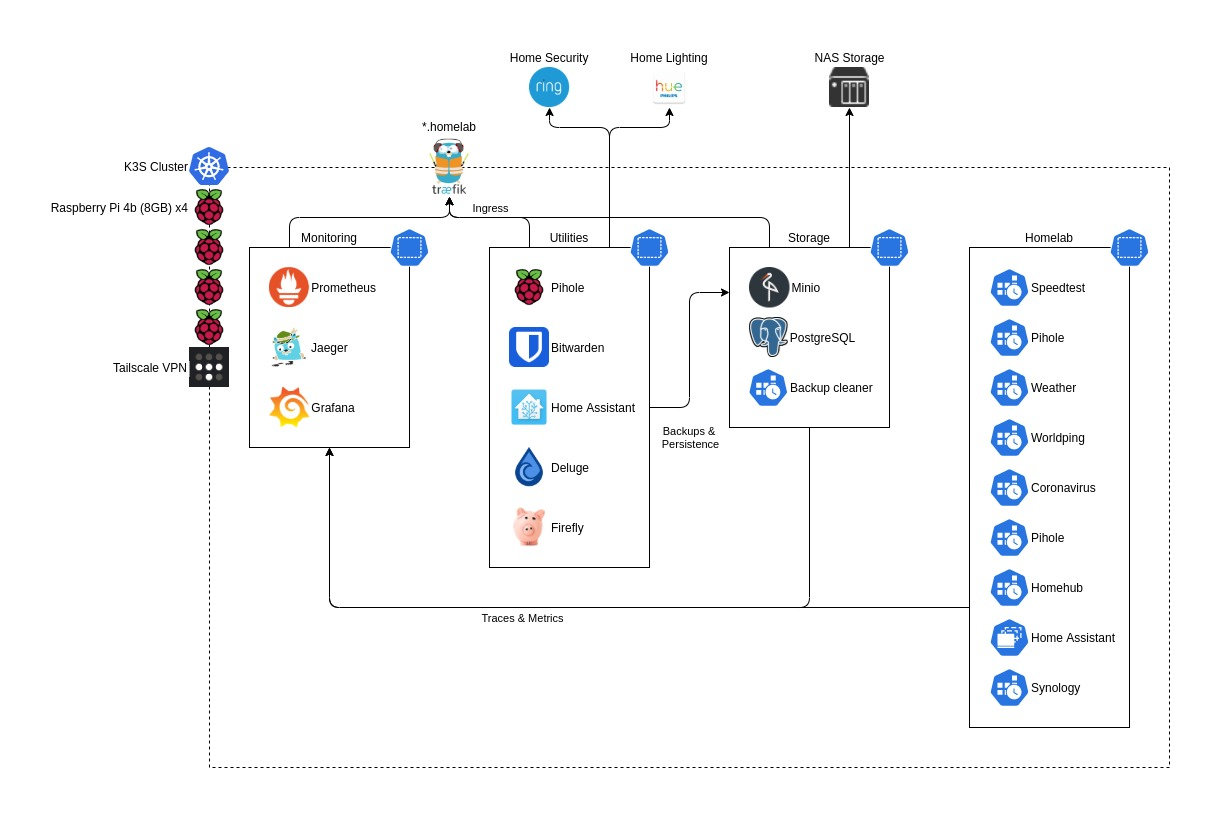
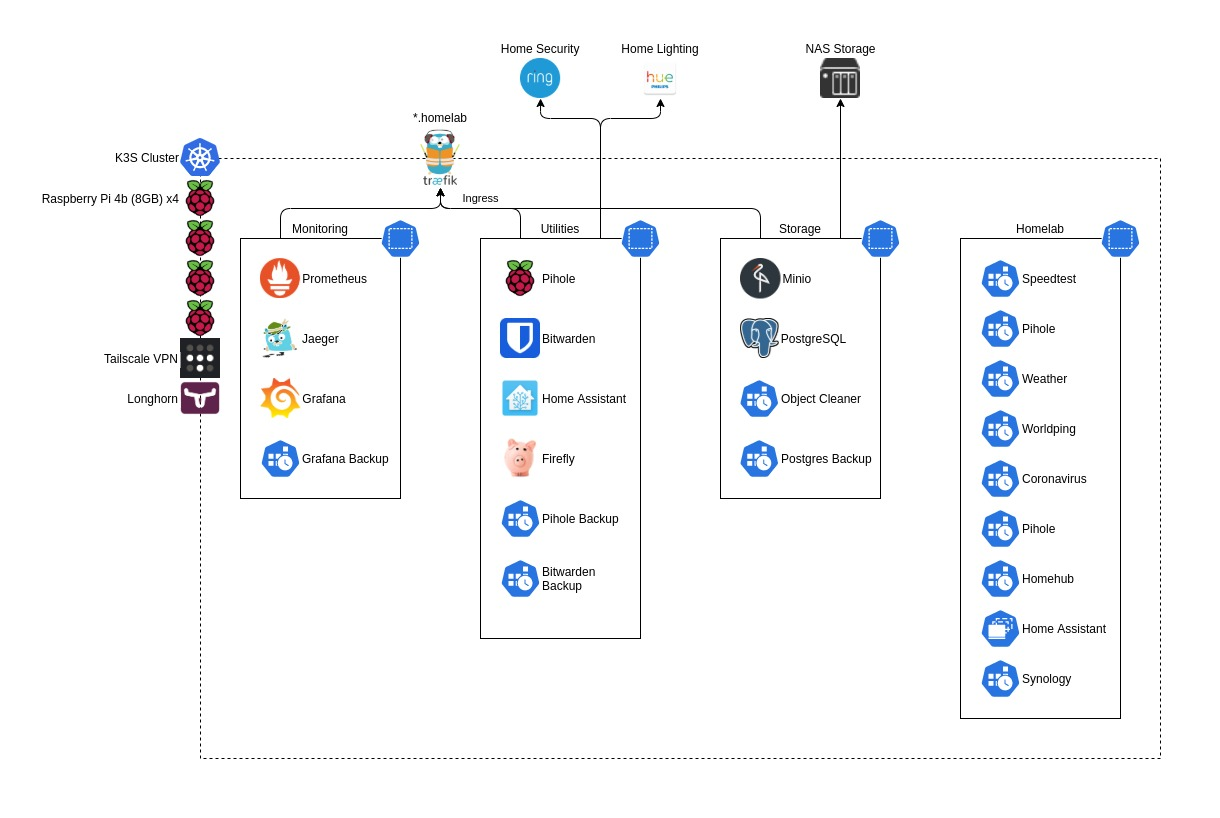
Update documentation (#42)
Removes outdated information, adds information on longhorn, tools & environment.

diff --git a/README.md b/README.md
@@ -15,7 +15,8 @@ Monorepo for my personal homelab. It contains applications and kubernetes manife
 
 ## Getting started
 
-This assumes you have [go](https://golang.org/), [docker](https://www.docker.com/) & [make](https://www.gnu.org/software/make/manual/make.html) 
+This assumes you have [go](https://golang.org/), [kubectl](https://kubernetes.io/docs/reference/kubectl/kubectl),
+[kustomize](https://kubernetes.io/docs/tasks/manage-kubernetes-objects/kustomization) & [make](https://www.gnu.org/software/make/manual/make.html) 
 installed along with docker's [buildx](https://docs.docker.com/buildx/working-with-buildx/) plugin.
 
 * Clone the repository
@@ -34,18 +35,17 @@ installed along with docker's [buildx](https://docs.docker.com/buildx/working-wi
 
 Here's a list of third-party applications I'm using alongside my custom applications:
 
-* [deluge](https://deluge-torrent.org/) - For torrents
-* [home-assistant](https://www.home-assistant.io/) - For interfacing with my ring cameras
-* [pihole](https://pi-hole.net/) - For DNS and ad-blocking
-* [traefik](https://traefik.io/) - For exposing services on the homelab, usually just their web-interfaces
-* [prometheus](https://prometheus.io/) - For scraping all my metrics
-* [grafana](https://grafana.com/) - For visualising all my metrics
-* [jaeger](https://www.jaegertracing.io/) - For tracing my applications
-* [node-exporter](https://github.com/prometheus/node_exporter) - For monitoring the host environment and exporting stats as prometheus metrics
-* [helm](https://helm.sh/) - For installing non-trivial k8s applications, like the prometheus operator.
-* [minio](https://min.io/) - An S3 compatible API that sits in front of my NAS drive.
-* [postgres](https://www.postgresql.org/) - Relational SQL database
-* [firefly](https://www.firefly-iii.org/) - A personal finance manager
+* [longhorn](https://longhorn.io/) - Cloud native distributed block storage for Kubernetes.
+* [home-assistant](https://www.home-assistant.io/) - Open source home automation that puts local control and privacy first.
+* [pihole](https://pi-hole.net/) - A black hole for Internet advertisements.
+* [traefik](https://traefik.io/) - The Cloud Native Application Proxy.
+* [prometheus](https://prometheus.io/) - The Prometheus monitoring system and time series database.
+* [grafana](https://grafana.com/) - The open observability platform.
+* [jaeger](https://www.jaegertracing.io/) - Open source, end-to-end distributed tracing.
+* [node-exporter](https://github.com/prometheus/node_exporter) - Exporter for machine metrics.
+* [minio](https://min.io/) - High Performance, Kubernetes Native Object Storage.
+* [postgres](https://www.postgresql.org/) - The world's most advanced open source database.
+* [firefly](https://www.firefly-iii.org/) - A free and open source personal finances manager.
 
 ## Prometheus exporters
 
@@ -58,7 +58,7 @@ I've implemented several custom prometheus exporters in this repo that power my 
 * `weather` - Exports current weather data as prometheus metrics
 * `worldping` - Exports world ping times for the local host as prometheus metrics
 * `home-assistant` - Proxies prometheus metrics from a home-assistant server.
-* `synology` - Exports statistics from my [Synology DS115j](https://www.amazon.co.uk/Synology-DS115j-1TB-Desktop-Unit/dp/B00O8LLQBY) NAS.
+* `synology` - Exports statistics from my NAS drive.
 
 ## Other tools
 
@@ -66,6 +66,7 @@ Here are other tools I've implemented for use in the cluster.
 
 * `bucket-object-cleaner` - Deletes objects in a blob bucket older than a configured age.
 * `grafana-backup` - Copies all dashboards and data sources from grafana and writes them to a MinIO bucket.
+* [db-backup](https://github.com/davidsbond/db-backup) - A backup utility for databases.
 
 ## External services
 
@@ -90,6 +91,8 @@ the master node upgrades.
 * 4 [Raspberry Pi 4b](https://www.raspberrypi.org/products/raspberry-pi-4-model-b/) (8GB RAM)
 * Kubernetes via [k3s](https://k3s.io/)
 * [Zebra Bramble Cluster Case](https://www.c4labs.com/product/zebra-bramble-case-raspberry-pi-3-b-color-and-stack-options/) from [C4 Labs](https://www.c4labs.com/)
+* 4 [SanDisk Ultra 32 GB microSDHC](https://www.amazon.co.uk/gp/product/B073JWXGNT) Memory Cards
+* [Synology DS115j](https://www.amazon.co.uk/Synology-DS115j-1TB-Desktop-Unit/dp/B00O8LLQBY) NAS drive.
 
 ![Cluster](img/cluster.jpg)
 
